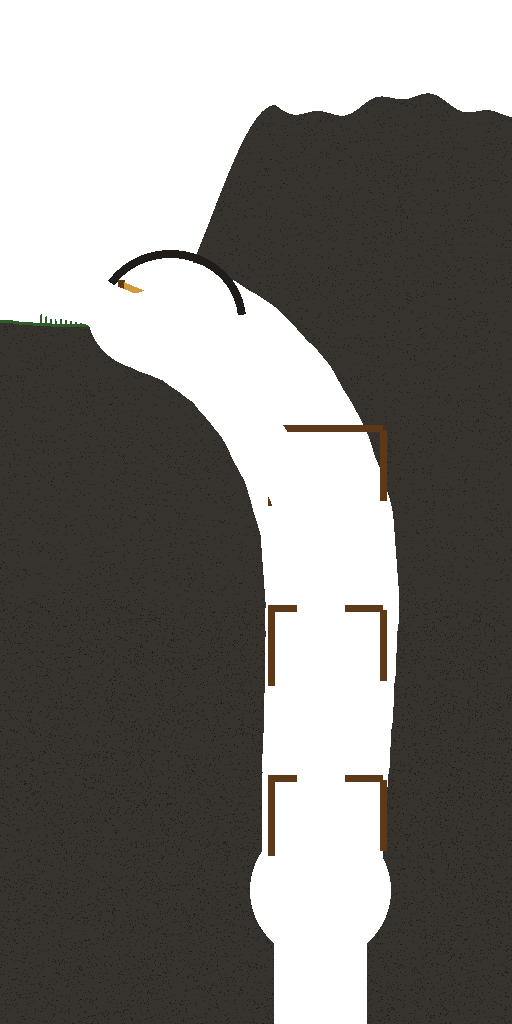
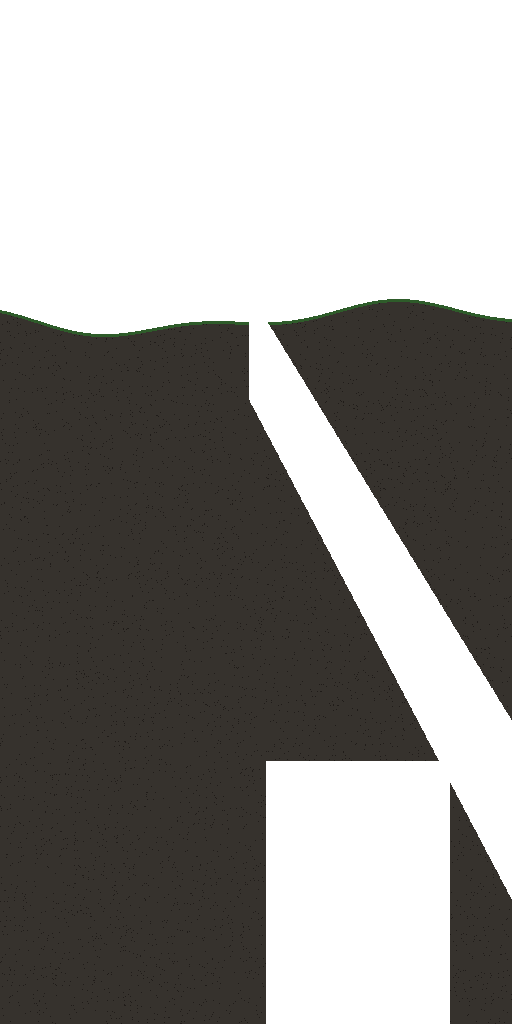
Restore classic surface chunk profile
Restore the default Surface fixed chunks to the classic tool-mode profile: continuous low-amplitude sine ground, no tree/wood props, and a right/down shaft entrance matching the legacy opening layout. Updated the authored material pipeline metadata, docs, and chunk resource colors/variation settings to use the modern rock / mine_dark_rock / surface_foliage palette. Also moved the main entrance anchor to the actual shaft mouth and tightened smoke tests to verify the classic material constraints and diagonal clearance path.

Changed region(s): [[0.0, 0.0938, 1.0, 1.0]]

diff --git a/docs/SURFACE_OPENING_AUTHORING.md b/docs/SURFACE_OPENING_AUTHORING.md
@@ -24,16 +24,29 @@ special-chunk worker only receives that Image.
 
 | Chunk origin | Definition | Image size | Purpose |
 |---|---|---:|---|
-| `(-5,-1)` | `surface_left_boundary_chunk` | 512×512 | Natural left boundary |
+| `(-5,-1)` | `surface_left_boundary_chunk` | 512×512 | Classic far-west ground |
 | `(-4,-1)` | `surface_ground_chunk` | 512×512 | West ground |
-| `(-3,-1)` | `surface_grove_chunk` | 512×512 | Tree landmark |
-| `(-2,-1)` | `surface_approach_chunk` | 512×512 | Directional approach |
+| `(-3,-1)` | `surface_grove_chunk` | 512×512 | Classic mid-west ground (legacy ID, no trees) |
+| `(-2,-1)` | `surface_approach_chunk` | 512×512 | Classic mid-east ground |
 | `(-1,-1)` | `surface_spawn_chunk` | 512×512 | Safe player spawn |
 | `(0,-1)` | `surface_east_ground_chunk` | 512×512 | Entrance approach |
-| `(1,-1)` | `surface_entrance_chunk` | 512×1024 | Slope and vertical mine connection |
+| `(1,-1)` | `surface_entrance_chunk` | 512×1024 | Classic right/down slope and vertical mine connection |
 
 The last resource occupies two cells. Its bottom material opening and socket profile must both target slot 2 as
 `OPEN_LARGE`.
+
+## Default visual profile
+
+The default Surface intentionally follows the earlier tool-mode prototype profile:
+
+- one globally sampled low-amplitude sine surface across all seven fixed chunks;
+- no trees, wooden supports, gold decoration, or authored landmark props;
+- a broad classic right/down entrance cut followed by a vertical shaft;
+- current material semantics rather than the old dynamic `organic` grass material.
+
+The PNGs remain the runtime truth source. The matching `surface_ground_ratio = 0.62`,
+`surface_height_variation = 0.045`, and generated fallback colors are kept on each `SpecialChunkDef` so the
+resource metadata and emergency procedural fallback describe the same profile.
 
 ## Painting rules
 
@@ -43,10 +56,10 @@ The last resource occupies two cells. Its bottom material opening and socket pro
 - Broad decorative grass/foliage on authored Surface chunks must use `surface_foliage` (`RGB 46,92,42`, element `2058`). It is an inert, non-colliding, flammable visual material.
 - Reserve `organic` (`RGB 53,57,35`, native element `14`) for places where autonomous growth is intentional. Do not paint thousands of `organic` pixels merely to obtain a grass color.
 - Import authored material images losslessly, without mipmaps or resize limits; filtering affects only preview rendering and must never be used to resample source pixels.
-- Keep cross-chunk surface seams continuous on both edge rows and material layers.
+- Keep cross-chunk surface seams continuous with the shared classic world-X height profile.
 - Keep the spawn collider envelope clear above the surface.
 - Keep the entrance shaft open all the way to the bottom edge.
-- Decorative arches and support beams must leave at least a 13×21 pixel air envelope along the authored player route.
+- The default entrance contains no support beams; any later decoration must preserve at least a 13×21 pixel air envelope along the player route.
 - Save critical chunks with `require_material_layout = true`.
 
 ## Verification
@@ -56,5 +69,5 @@ The last resource occupies two cells. Its bottom material opening and socket pro
 3. Validate the layout.
 4. Run `tests/WorldLayoutSmokeTest.tscn`.
 5. Start a normal run and confirm the player remains disabled until the spawn collision is ready.
-6. Walk right into the slope without firing or digging; support art must not block the player collider.
+6. Walk right into the classic slope without firing or digging; the diagonal passage must remain directly traversable.
 7. Confirm the first procedural Mine chunk connects without a solid seam.

diff --git a/CHANGELOG.md b/CHANGELOG.md
@@ -1,3 +1,5 @@
+> **Gameplay V5.0 Classic Surface Material Pass：** 默认地表七个固定 SpecialChunk 的素材恢复为 `pixel-sandbox-world-layout-toolmode-hotfix` 时期的连续正弦地表轮廓与无树入口形态，同时继续使用当前 authored `material_layout` 管线。所有不透明像素只使用新版 `rock / mine_dark_rock / surface_foliage` 材质色，不再包含 Wood、Gold、Organic 或树木装饰；入口恢复经典右下斜坡 + 竖井并与底部 `OPEN_LARGE` Socket 连通，`main_entrance` Anchor 同步回到实际洞口。
+
 > **Gameplay V5.0 SpecialChunk Bottom Palette：** 为独立 `ChunkLayer` 增加类似 TileMap 的底部 SpecialChunk 画笔面板。面板使用 Godot 4.7 transient bottom `EditorDock`，仅在选中 `ChunkLayer` 时打开；以缩略图网格展示 `palette_chunks`，支持名称/ID/Biome/Tag 搜索、多 Tag 的 Any/All 筛选、选中即进入 Paint、Pick 反向同步、双击/Inspect 打开 `SpecialChunkDef`。Palette 内容只来自 `ChunkLayer.palette_chunks`，不扫描目录、不硬编码资源路径。插件版本更新为 2.4.0。详见 `docs/SPECIAL_CHUNK_PALETTE_AUTHORING.md`。
 
 > **Gameplay V5.0 Chunk Grid Selection Hotfix：** 调整 World Layout 编辑器 Overlay 的显示语义。固定 SpecialChunk 的完整色块、透明预览、footprint 边框和标签仍会在 WorldLayout 打开后默认显示，但橙色 Chunk 网格现在只在 Scene Tree 中选中对应 `ChunkLayer` 时绘制；选中 BiomeLayer、Anchor 或 WorldLayout 根节点时不会再显示网格。Dock 文案同步为 “Fixed chunks (grid when selected)”，插件版本更新为 2.3.3。
